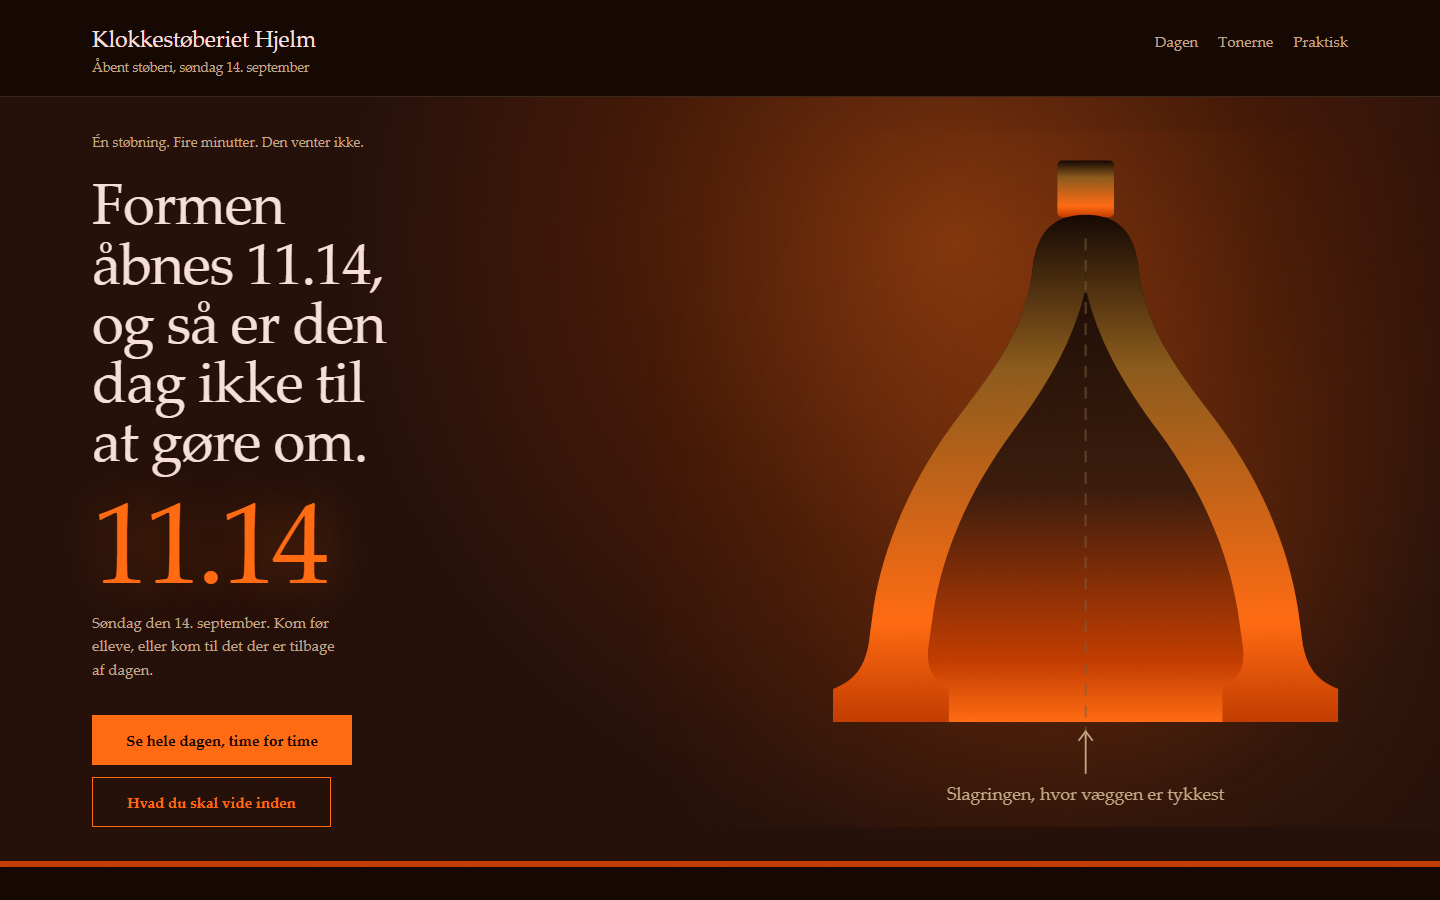
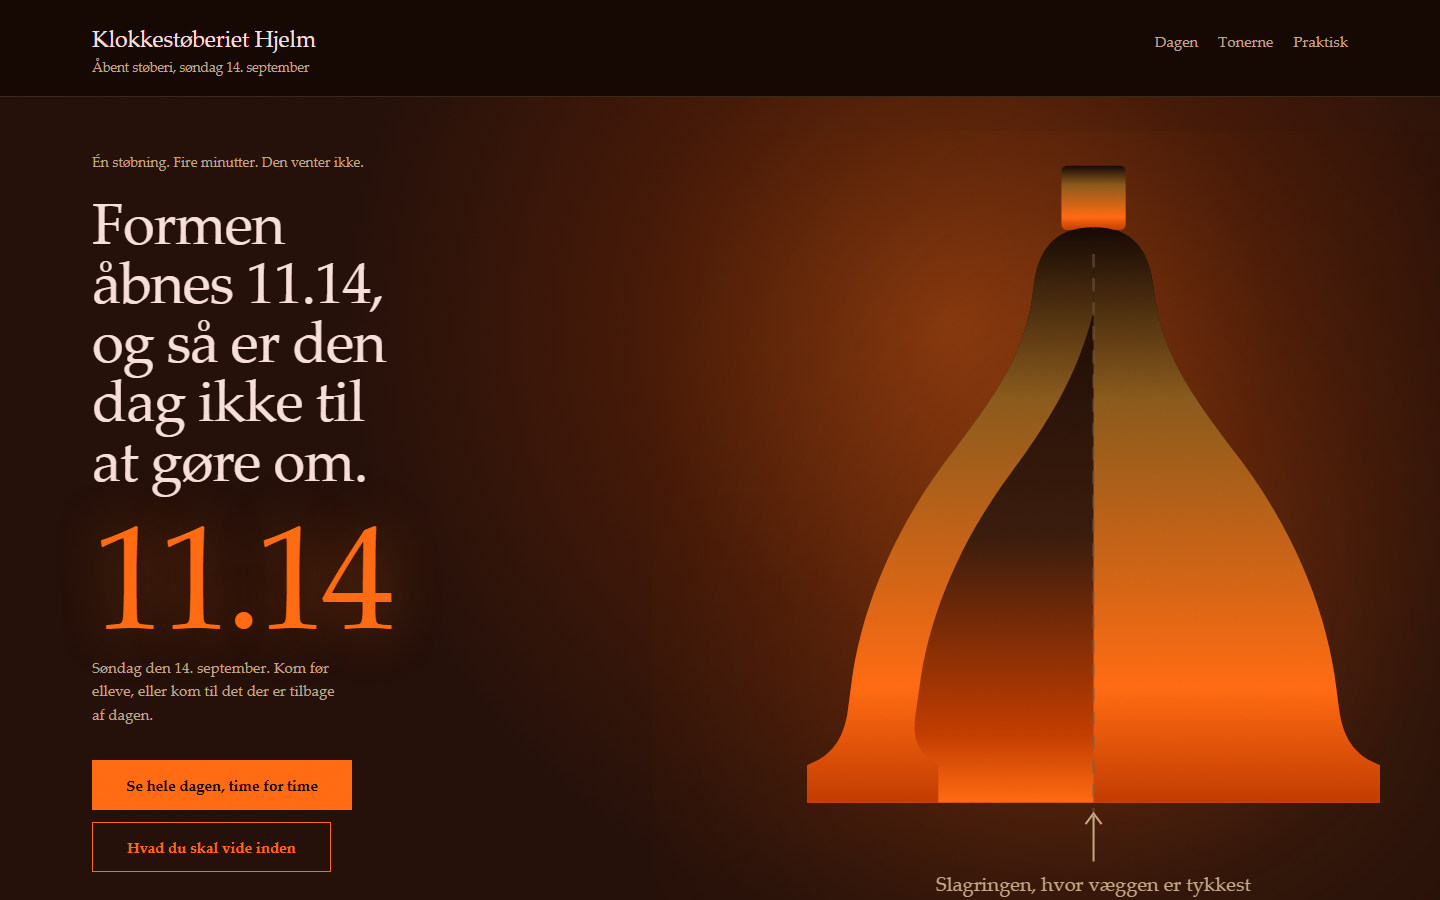
feat: asset-stigen vendt om, og en side uden foto af sit emne er nu et udkast
Din egen dom var den rigtige: tre sider om fysiske ting og ikke ét fotografi imellem
dem. Vores upstream siger det ordret i 03-design-engineering.md:138, "A pure-text page
is not minimalism. It is incomplete work." look.md havde raekkefoelgen omvendt og satte
"drawn here" over licenseret fotografi.

  look.md sektion 3 er nu en stige man klatrer ovenfra:
    1. kundens eget fotografi. Findes det ikke, saa SPOERG om det. Det koster en saetning.
    2. licenseret og navngivet, med licensen i manifestet foer filen bruges.
    3. tegnet her. Rigtigt svar til et snit, forkert svar til noget man kunne fotografere.

  gate.mjs look/no-photograph: en buy-, experience- eller redesign-flade uden ét
  fotografi er ikke en release. --draft nedgraderer den, fordi et udkast der venter paa
  kunden er aerligt og en release ikke er.

Tre sider staar nu som udkast med den manglende asset navngivet praecist: et billede af
stoeberigulvet under en stoebning, af Dacron-dugen med trippel zigzag, af baenken paa
Ternevej 7. Kalkvaerket er ikke beroert: et vagtbord skal ikke have et fotografi.

Klokkestoeberiets tre haandvaerksfejl rettet i samme runde: snittet er nu asymmetrisk,
hoejre halvdel hel og venstre skaaret op, fordi et spejlet snit er et diagram og ikke en
tegning; overskriften traadte tilbage saa 11.14 er det stoerste paa skaermen i stedet for
at kaempe med den; og tegningen faar 88svh og staar lavere, saa den nederste tredjedel til
hoejre ikke er tom.
[…]

diff --git a/docs/rebuild/s18/pilot-klokkestoberiet/index.html b/docs/rebuild/s18/pilot-klokkestoberiet/index.html
@@ -73,7 +73,7 @@ a{color:var(--gloed)}
 .stedet{font-size:var(--tx-lille);color:var(--skrift-2);margin:0 0 var(--r3)}
 h1{font-family:var(--display);font-weight:400;font-size:clamp(34px,4.4vw,58px);
    line-height:1.02;letter-spacing:-.022em;margin:0 0 var(--r3);text-wrap:balance}
-.klokkeslet{display:block;font-size:clamp(60px,8.5vw,116px);line-height:.88;
+.klokkeslet{display:block;font-size:clamp(72px,10.5vw,148px);line-height:.86;
             letter-spacing:-.05em;margin:0 0 var(--r3);color:var(--gloed);
             text-shadow:0 0 var(--r5) rgba(255,106,18,.42)}
 .undertid{margin:0;font-size:var(--tx-note);line-height:1.55;color:var(--skrift-2);max-width:34ch}
@@ -87,10 +87,10 @@ h1{font-family:var(--display);font-weight:400;font-size:clamp(34px,4.4vw,58px);
 .klokke{position:relative;z-index:1;justify-self:stretch;align-self:stretch;
         display:flex;align-items:center;justify-content:flex-end;overflow:hidden;
         margin:var(--r4) calc(var(--r4) * -1) calc(var(--r5) * -1) 0}
-@media (min-width:900px){.klokke{margin:0 -10% 0 0}}
+@media (min-width:900px){.klokke{margin:0 -12% -4% 0;align-items:flex-end}}
 .klokke svg{display:block;width:122%;max-width:none;height:auto;
             filter:drop-shadow(0 0 var(--r7) rgba(255,106,18,.28))}
-@media (min-width:900px){.klokke svg{width:106%;height:76svh}}
+@media (min-width:900px){.klokke svg{width:112%;height:88svh}}
 .metal-kold{fill:url(#metal)}
 .metal-bag{fill:url(#indre)}
 .midte{stroke:var(--ler);stroke-width:2;stroke-dasharray:10 8;fill:none;opacity:.5}
@@ -212,12 +212,13 @@ footer{position:relative;z-index:3;padding:var(--r5) var(--r4) var(--r6);
           C142 452 132 462 116 468 L116 496 L214 496 L214 468
           C200 460 194 450 197 430 L201 402
           C209 352 231 300 268 250 C298 210 320 172 330 128 Z"/>
+        <!-- Hoejre halvdel er hel, venstre er skaaret op. Et snit er interessant fordi
+             det er asymmetrisk: halvt udvendigt, halvt indvendigt. Spejlet blev det et
+             diagram i stedet for en tegning. -->
         <path transform="translate(660,0) scale(-1,1)" d="M330 66
           C300 66 288 84 285 112 C280 158 258 190 226 232
           C182 288 158 348 150 400 L146 430
-          C142 452 132 462 116 468 L116 496 L214 496 L214 468
-          C200 460 194 450 197 430 L201 402
-          C209 352 231 300 268 250 C298 210 320 172 330 128 Z"/>
+          C142 452 132 462 116 468 L116 496 L330 496 L330 66 Z"/>
       </g>
 
       <path class="midte" d="M330 86 V512"/>

diff --git a/docs/rebuild/s10/fixtures/scripts/gate/no-photo/index.html b/docs/rebuild/s10/fixtures/scripts/gate/no-photo/index.html
@@ -7,8 +7,6 @@
 <link rel="stylesheet" href="styles.css">
 </head>
 <body>
[1 lines of base64/hex data omitted]
-
 <header><a href="https://example.invalid/loft">Trelfall &amp; Son</a></header>
 <nav aria-label="Sections"><a href="#work">Work</a> <a href="#terms">Terms</a></nav>
 
@@ -19,7 +17,6 @@
 <h1>Six pits, ninety days, no shortcut</h1>
 <hr class="wetline">
 <p>We tan with bark liquor in open pits. A hide enters at pit one and leaves at pit six, and the ledger records the day it moved.</p>
-<img data-asset="pit-three" src="pit-three.jpg" width="800" height="600" alt="Pit three with a hide half lifted on the beam">
 </main>
 <footer><a href="mailto:loft@example.invalid">Write to the loft</a><span>Trelfall &amp; Son, Marstal</span></footer>
 </body>

diff --git a/docs/rebuild/s10/fixtures/scripts/gate/no-photo/styles.css b/docs/rebuild/s10/fixtures/scripts/gate/no-photo/styles.css
@@ -1,0 +1,36 @@
+:root {
+  --paper: #e6ecf2;
+  --liquor: #3b2a17;
+  --iron: #7a1f12;
+  --face-drum: "Courier New", monospace;
+  --face-ledger: Georgia, serif;
+  --step-drum: 2.75rem;
+  --step-ledger: 1.0625rem;
+  --curl: 3px;
+}
+
+html { background: var(--paper); }
+
+body {
+  background: var(--paper);
+  color: var(--liquor);
+  font-family: var(--face-ledger);
+  font-size: var(--step-ledger);
+}
+
+h1 {
+  font-family: var(--face-drum);
+  font-size: var(--step-drum);
+  color: var(--liquor);
+  background-image: linear-gradient(var(--liquor), var(--iron));
+  -webkit-background-clip: text;
+  background-clip: text;
+  color: transparent;
+}
+
+.wetline {
+  height: 0.5px;
+  border: 0;
+  border-radius: var(--curl);
+  background: var(--iron);
+}

diff --git a/docs/rebuild/s10/fixtures/scripts/gate/no-photo/.sitesmith/direction.md b/docs/rebuild/s10/fixtures/scripts/gate/no-photo/.sitesmith/direction.md
@@ -1,0 +1,79 @@
+# Direction record
+
+## Surface
+experience
+
+## Subject
+a two-person vegetable tannery that runs six pits on a ninety day cycle
+
+## Constraints in force
+No photography exists. The pit numbers are the only fixed vocabulary the trade uses.
+
+## Assets that exist
+The sizing drum chart, photographed once, and the pit ledger itself.
+
+## Nouns
+pit, liquor, bark, sizing drum, hide, ninety day cycle
+
+## Theses
+1. the ledger, the page is the book the pits are recorded in
+2. the drum, the page is the machine and the copy is its label
+3. the cycle, the page is ninety days laid end to end
+
+## Case for the runner-up
+For: 2. The drum is the one object a customer would recognise, and leading with it would
+have made the trade legible in a second. It lost because the ledger is what the customer
+actually receives, and the page should look like the thing they get.
+
+## Built
+Built: 1, axis: document over showcase, because the buyer is handed a ledger page and not a
+brochure.
+
+## Colour
+- ground: `#e6ecf2`, the paper the ledger is kept on
+- drum: `#dccfb8`, the sizing drum seen through the doorway
+- bark: `#b9a487`, bark before it is ground
+
+## Type
+- display: "Courier New", set at the pit labels because the trade writes them on a machine
+- body: "Georgia", the ledger's own reading face
+
+## Density, motion and boldness
+Dense, still, quiet. Nothing moves. The only emphasis is a rule.
+
+## Structure
+One column the width of a ledger page, with the pit rows running the full measure.
+
+## First screen
+The pit number, the date, and the hide count. No headline above them.
+
+## Imagery treatment
+The one photograph is set as a plate with a caption, never as a background.
+
+## Argument order
+What is in the pit now, then what comes out, then what it costs.
+
+## Signature
+the wet line that runs under every heading (`.wetline`)
+
+## Risk
+A page that looks like a document can read as unfinished to a buyer expecting a shop.
+
+## Answer to the risk
+The risk above is answered by `.wetline`, the signature that runs under every heading and keeps the page reading as one object rather than as a document with sections.
+
+## The shell
+Who: `Trelfall & Son` in the header, on every screen. Where: Marstal, named in the footer. Do: the enquiry link in the footer, which is the one action this surface carries.
+
+## Assumptions
+Assumed the pit numbering is public. Written down because nobody confirmed it.
+
+## Originality pass
+Ran the plan against a neighbouring cooperage brief. The colour set survived the swap and
+was rebuilt from the drum chart instead of the yard.
+
+## One-offs
+- `0.5px` the wet line is a hairline and a hairline is not a scale step
+
+## Deliberate
+- `gradient-text` the drum label bleeds like liquor into leather, and the bleed is the mark

diff --git a/skills/sitesmith-v3/look.md b/skills/sitesmith-v3/look.md
@@ -36,20 +36,26 @@ An asset is not decoration; each row must say what the page loses without it.
 
 | what | contributes | source | licence | state |
 
-Sources, in order of preference:
+Sources, in this order, and the order is not a preference. It is a ladder and you climb
+it from the top.
 
-1. **Supplied by the client.** Use these first. A real photograph of the real thing beats
-   anything you can make.
-2. **Drawn here.** An SVG, a CSS composition, a canvas figure. Original work, so the
-   provenance is this repository and the licence is its licence. This is the honest answer
-   when the client supplied nothing, and it is a real answer rather than a fallback: a
-   drawn section, a diagram, a mark, a texture.
-3. **Licensed and sourced.** Only with the licence recorded and the source named. A
-   photograph with no traceable licence is not an option, whatever it looks like.
+1. **Supplied by the client.** A real photograph of the real thing beats anything you can
+   make. If the subject is a physical thing and no photograph was supplied, **ask for one**
+   as one of the run's blocking questions. Asking costs a sentence. Not asking costs the
+   page.
+2. **Licensed and sourced.** The licence recorded and the source named, in the manifest,
+   before the file is used. A photograph with no traceable licence is not an option
+   whatever it looks like.
+3. **Drawn here.** An SVG, a CSS composition, a canvas figure. Original work, so the
+   provenance is this repository. A drawing is the right answer for a thing that cannot be
+   photographed: a section, a schematic, a diagram, a mark, a texture. It is the wrong
+   answer for a thing that exists and could be photographed, and using it there is how a
+   page ends up describing its subject instead of showing it.
 
-If a required asset cannot be obtained, the build is a **draft** and says so. It does not
-proceed with an empty rectangle where the thing was going to be. It does not generate a
-photograph of a place that exists.
+**A page about a physical subject with no photograph of it is a draft.** Not a failure and
+not a style: a draft, with the missing asset named, and `--draft` on the gate so the report
+says so. Ship it that way and ask for the photograph. Do not draw your way out of the ask,
+and do not generate a picture of a place that exists.
 
 ## 4. The first viewport has to carry
 

diff --git a/docs/rebuild/s17/holdouts/b-sailmaker/PRODUCTION-REPORT.md b/docs/rebuild/s17/holdouts/b-sailmaker/PRODUCTION-REPORT.md
@@ -38,3 +38,20 @@ about performance in a named wind, because the order sheet states none of them.
 - failure-path: confirmed, fixed. Sending without a measurement now refuses, names the missing thing, gives the phone number and moves focus to the control that fixes it
 
 Nothing on this list is still open.
+
+## Draft state
+
+draft: yes
+
+release: no
+
+This build is a draft for one reason, and it is named rather than hidden: **no photograph
+of the subject exists in the brief.** look.md section 3 puts a client photograph at the top
+of the asset ladder and a drawing at the bottom, and it says a page about a physical
+subject with no photograph of it is a draft. This is one.
+
+What is missing, precisely: one photograph of the Dacron 340 cloth at close range showing the triple zigzag, and one of a hand-sewn thimble at the clew.
+
+What happens next: ask for it. The drawings on this page are correct for what they are, a
+section and a diagram, and they are the wrong answer for a thing that could be
+photographed. Nothing here should be replaced by a generated image.

diff --git a/docs/rebuild/s18/pilot-klokkestoberiet/PRODUCTION-REPORT.md b/docs/rebuild/s18/pilot-klokkestoberiet/PRODUCTION-REPORT.md
@@ -74,3 +74,20 @@ only one round happened.
   generated image; it is asking the foundry for a photograph of the floor.
 - The page is one screen deep in argument and four sections long. It is a complete
   experience surface for this brief and it is not a large site.
+
+## Draft state
+
+draft: yes
+
+release: no
+
+This build is a draft for one reason, and it is named rather than hidden: **no photograph
+of the subject exists in the brief.** look.md section 3 puts a client photograph at the top
+of the asset ladder and a drawing at the bottom, and it says a page about a physical
+subject with no photograph of it is a draft. This is one.
+
+What is missing, precisely: one photograph of the foundry floor, ideally during a pour, and one of a finished bell in the tuning frame.
+
+What happens next: ask for it. The drawings on this page are correct for what they are, a
+section and a diagram, and they are the wrong answer for a thing that could be
+photographed. Nothing here should be replaced by a generated image.

diff --git a/pilots/04-byens-it/PRODUCTION-REPORT.md b/pilots/04-byens-it/PRODUCTION-REPORT.md
@@ -88,3 +88,20 @@ Scenario: buy
 - reduced-motion-clean: confirmed as clean, because the timeline is switched off rather than slowed and the end state renders complete
 
 Nothing on this list is still open.
+
+## Draft state
+
+draft: yes
+
+release: no
+
+This build is a draft for one reason, and it is named rather than hidden: **no photograph
+of the subject exists in the brief.** look.md section 3 puts a client photograph at the top
+of the asset ladder and a drawing at the bottom, and it says a page about a physical
+subject with no photograph of it is a draft. This is one.
+
+What is missing, precisely: one photograph of the bench at Ternevej 7, and one of a finished machine before it leaves.
+
+What happens next: ask for it. The drawings on this page are correct for what they are, a
+section and a diagram, and they are the wrong answer for a thing that could be
+photographed. Nothing here should be replaced by a generated image.

diff --git a/docs/rebuild/s10/fixtures/scripts/gate/no-photo/PRODUCTION-REPORT.md b/docs/rebuild/s10/fixtures/scripts/gate/no-photo/PRODUCTION-REPORT.md
@@ -1,0 +1,30 @@
+# Production report
+
+Scenario: buy
+Draft: no
+Release: yes
+
+## Files opened
+
+- `SKILL.md`
+- `run.md`
+- `floor/buy.md`
+- `stacks/static.md`
+
+## Run notes
+
+- viewports: 375, 768, 1440
+- axe both schemes: yes
+- live server: yes
+- anti-slop linter: yes
+- fallbacks: none
+
+## Mechanical findings
+
+- `axe/color-contrast`: the wet line read 3.9:1 against paper at 1440
+- `overflow/none`: nothing scrolls sideways at 320
+
+## Reconciliation
+
+- `axe/color-contrast`: confirmed, the line was darkened to the tanning liquor value
+- `overflow/none`: confirmed

diff --git a/docs/rebuild/s10/fixtures/scripts/gate/no-photo/ASSET-MANIFEST.md b/docs/rebuild/s10/fixtures/scripts/gate/no-photo/ASSET-MANIFEST.md
@@ -5,4 +5,3 @@
 | `mark-ashby` | the house mark, three pits seen in section | masthead | drawn for this build | owned outright | ready |
 | `pit-three` | pit three at the end of a ninety day run | first screen | shot on site, 4 May 2026 | owned outright | ready |
 | p1 | the plate that owns the first screen | `index.html` | drawn here | original | ready |
-| p2 | the drum, photographed once | `index.html` | supplied by the loft | client-owned, used with permission | ready |
